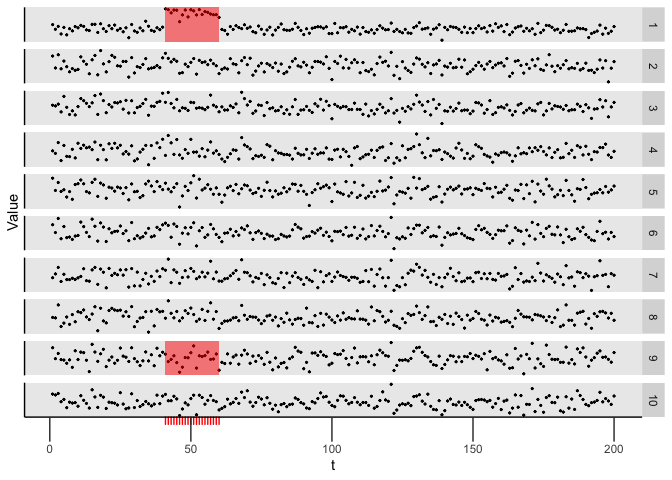
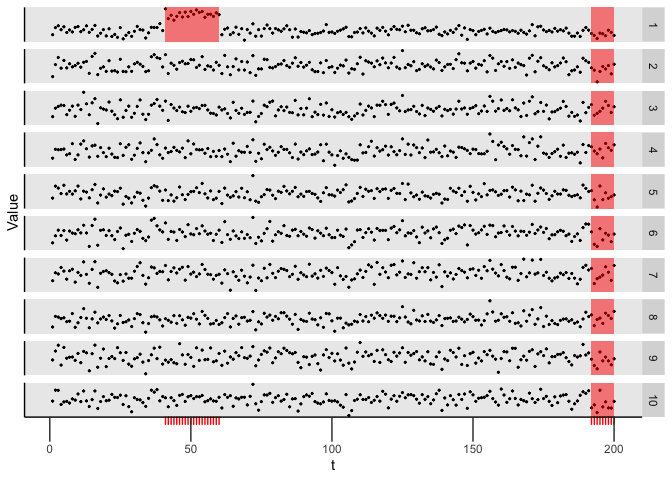
Added functions for rerunning simulation study to README.

Changed region(s): [[0.0625, 0.0, 0.9375, 0.9062]]

diff --git a/README.md b/README.md
@@ -44,6 +44,17 @@ inside R.
   - simulate\_cor
   - car\_precision\_mat
 
+The following functions rerun the simulation study:
+
+  - all\_known\_power\_runs10
+  - all\_known\_power\_runs100
+  - all\_known\_cpt\_runs10
+  - all\_known\_cpt\_runs100
+  - all\_cpt\_est\_runs
+  - all\_multiple\_anom\_runs10
+  - all\_multiple\_anom\_runs100
+  - all\_subset\_est\_runs
+
 ## Example
 
 ``` r
@@ -56,16 +67,16 @@ Q <- robust_sparse_precision(x, adjacency_mat(banded_neighbours(2, ncol(x)), spa
 print(round(Q, 2))
 #> 10 x 10 sparse Matrix of class "dsCMatrix"
 #>                                                                  
-#>  [1,]  1.03 -0.67 -0.17  .     .     .     .     .     .     .   
-#>  [2,] -0.67  2.45 -1.30 -0.07  .     .     .     .     .     .   
-#>  [3,] -0.17 -1.30  3.51 -1.34 -0.46  .     .     .     .     .   
-#>  [4,]  .    -0.07 -1.34  1.97  0.21 -0.58  .     .     .     .   
-#>  [5,]  .     .    -0.46  0.21  2.23 -1.44  0.00  .     .     .   
-#>  [6,]  .     .     .    -0.58 -1.44  3.07 -1.36 -0.08  .     .   
-#>  [7,]  .     .     .     .     0.00 -1.36  3.38 -1.22 -0.74  .   
-#>  [8,]  .     .     .     .     .    -0.08 -1.22  2.11  0.22 -0.40
-#>  [9,]  .     .     .     .     .     .    -0.74  0.22  2.60 -1.77
-#> [10,]  .     .     .     .     .     .     .    -0.40 -1.77  2.55
+#>  [1,]  1.26 -0.86 -0.04  .     .     .     .     .     .     .   
+#>  [2,] -0.86  2.66 -1.27 -0.10  .     .     .     .     .     .   
+#>  [3,] -0.04 -1.27  3.35 -1.60 -0.84  .     .     .     .     .   
+#>  [4,]  .    -0.10 -1.60  2.51  0.60 -1.04  .     .     .     .   
+#>  [5,]  .     .    -0.84  0.60  2.69 -2.20 -0.05  .     .     .   
+#>  [6,]  .     .     .    -1.04 -2.20  5.76 -1.59 -0.14  .     .   
+#>  [7,]  .     .     .     .    -0.05 -1.59  3.46 -1.87 -0.43  .   
+#>  [8,]  .     .     .     .     .    -0.14 -1.87  3.09 -0.06 -0.43
+#>  [9,]  .     .     .     .     .     .    -0.43 -0.06  1.92 -1.07
+#> [10,]  .     .     .     .     .     .     .    -0.43 -1.07  2.03
 res <- capa.cc(x, Q, b = 1, min_seg_len = 5)
 plot(res)
 ```
@@ -74,7 +85,16 @@ plot(res)
 
 ``` r
 collective_anomalies(res)
-#>    start end variate mean_change
-#> 1:    41  60       1   5.1115095
-#> 2:    41  60       9  -0.1967113
+#>     start end variate mean_change
+#>  1:   192 200       1  -1.0918051
+#>  2:   192 200       2  -0.8570065
+#>  3:   192 200       3   0.1939389
+#>  4:   192 200       4   0.3684759
+#>  5:   192 200       5  -0.4855975
+#>  6:   192 200       6  -0.7332309
+#>  7:   192 200       7  -0.1177546
+#>  8:   192 200       8   0.2732051
+#>  9:   192 200       9  -0.6516301
+#> 10:   192 200      10  -1.0565574
+#> 11:    41  60       1   4.5896476
 ```
